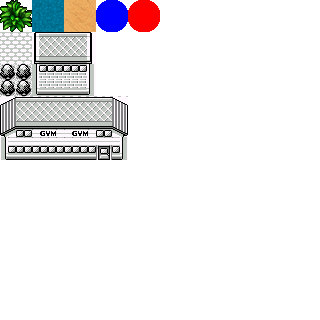
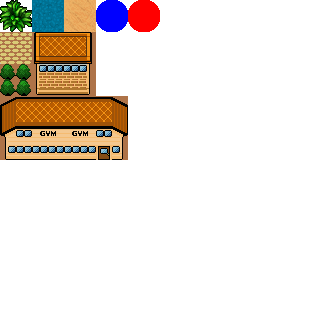
Novo mapa colorido

Changed region(s): [[0.0, 0.0938, 0.4062, 0.5]]

diff --git a/game/src/PlayState.cpp b/game/src/PlayState.cpp
@@ -13,7 +13,7 @@ using namespace std;
 void PlayState::init()
 {
 	player1 = new Player("data/img/p1.png", 32, 32);
-	player2 = new Player("data/img/p2.png", 100, 100);
+	player2 = new Player("data/img/p2.png", 416, 416);
 
 	map = new Map("map2.tmx", 2);
 
